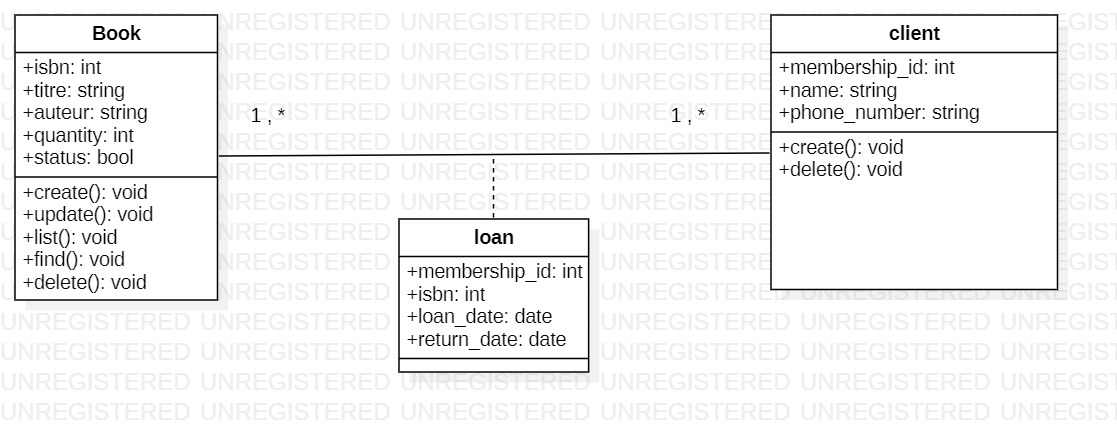
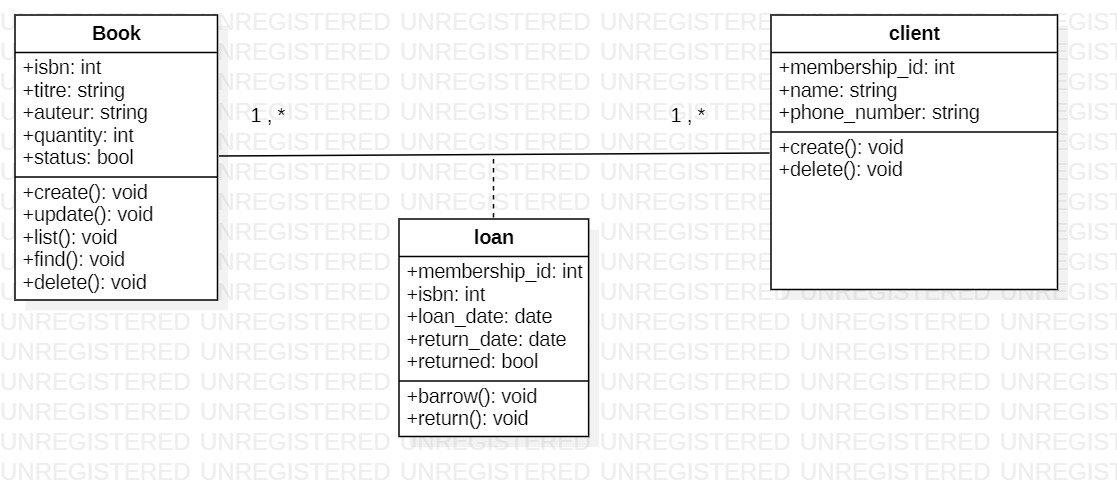
Add loan fonctionality + update uml

diff --git a/src/Main.java b/src/Main.java
@@ -27,43 +27,63 @@ public class Main {
 //        book.list(db);
 
 
-        System.out.println("Enter Book isbn");
-        int isbn = scanner.nextInt();
-        scanner.nextLine();
-
-        Book searchedBook = book.findByIsbn(db, isbn);
-
-        if(searchedBook == null){
-            System.out.println("Sorry we cannot find this book");
-        }else{
-            System.out.println(searchedBook.toString());
-
-            System.out.println("Enter the updated name (press enter to leave it as before)");
-            String updatedTitle = scanner.nextLine();
-            if (!updatedTitle.isEmpty()){
-                searchedBook.setTitle(updatedTitle);
-            }
-            System.out.println("Enter the updated author name (press enter to leave it as it is)");
-            String updatedAuthor = scanner.nextLine();
-            if (!updatedAuthor.isEmpty()){
-                searchedBook.setAuthor(updatedAuthor);
-            }
-            System.out.println("Enter the updated quantity (enter -1 to leave it as it is)");
-            int updatedQuantity = Integer.parseInt(scanner.nextLine());
-
-
-
-            if (updatedQuantity != -1){
-                searchedBook.setQuantity(updatedQuantity);
-            }
-            searchedBook.update(db, searchedBook);
-
-        }
+//        System.out.println("Enter Book isbn");
+//        int isbn = scanner.nextInt();
+//        scanner.nextLine();
+//
+//        Book searchedBook = book.findByIsbn(db, isbn);
+//
+//        if(searchedBook == null){
+//            System.out.println("Sorry we cannot find this book");
+//        }else{
+//            System.out.println(searchedBook.toString());
+//
+//            System.out.println("Enter the updated name (press enter to leave it as before)");
+//            String updatedTitle = scanner.nextLine();
+//            if (!updatedTitle.isEmpty()){
+//                searchedBook.setTitle(updatedTitle);
+//            }
+//            System.out.println("Enter the updated author name (press enter to leave it as it is)");
+//            String updatedAuthor = scanner.nextLine();
+//            if (!updatedAuthor.isEmpty()){
+//                searchedBook.setAuthor(updatedAuthor);
+//            }
+//            System.out.println("Enter the updated quantity (enter -1 to leave it as it is)");
+//            int updatedQuantity = Integer.parseInt(scanner.nextLine());
+//
+//
+//
+//            if (updatedQuantity != -1){
+//                searchedBook.setQuantity(updatedQuantity);
+//            }
+//            searchedBook.update(db, searchedBook);
+//
+//        }
 
 //        System.out.println("Enter the book name or its author's name");
 //        String query = scanner.nextLine();
 
 //        book.search(db, query);
+
+
+        // loan book
+        System.out.println("Enter the book isbn");
+        int _isbn = scanner.nextInt();
+        scanner.nextLine();
+        System.out.println("Enter the client membership Id");
+        int _membershipId = scanner.nextInt();
+        scanner.nextLine();
+        System.out.println("Enter Loan date (yyyy-mm-dd)");
+        String _loanDate = scanner.nextLine();
+        System.out.println("Enter Return date (yyyy-mm-dd)");
+        String _returnDate = scanner.nextLine();
+
+        Loan _loan = new Loan(_isbn, _membershipId, _loanDate, _returnDate,false);
+
+        _loan.borrow(db, _loan);
+
+
+
 
  }
 }

diff --git a/src/Loan.java b/src/Loan.java
@@ -1,0 +1,87 @@
+import java.sql.PreparedStatement;
+import java.sql.SQLException;
+import java.util.Date;
+
+public class Loan {
+    private int isbn;
+    private int membershipId;
+    private String loanDate;
+    private String returnDate;
+
+    private Boolean returned = false;
+
+
+    public Loan() {
+    }
+
+    public Loan(int isbn, int membershipId, String loanDate, String returnDate, Boolean returned) {
+        this.isbn = isbn;
+        this.membershipId = membershipId;
+        this.loanDate = loanDate;
+        this.returnDate = returnDate;
+        this.returned = returned;
+    }
+
+    public int getIsbn() {
+        return isbn;
+    }
+
+    public void setIsbn(int isbn) {
+        this.isbn = isbn;
+    }
+
+    public int getMembershipId() {
+        return membershipId;
+    }
+
+    public void setMembershipId(int membershipId) {
+        this.membershipId = membershipId;
+    }
+
+    public String getLoanDate() {
+        return loanDate;
+    }
+
+    public void setLoanDate(String loanDate) {
+        this.loanDate = loanDate;
+    }
+
+    public String getReturnDate() {
+        return returnDate;
+    }
+
+    public void setReturnDate(String returnDate) {
+        this.returnDate = returnDate;
+    }
+
+    public Boolean getReturned() {
+        return returned;
+    }
+
+    public void setReturned(Boolean returned) {
+        this.returned = returned;
+    }
+
+
+    public void borrow(Database db, Loan loan) throws SQLException{
+
+        try {
+            String selectQuery = "INSERT INTO loan(isbn, membership_id, loan_date, return_date) VALUES(?,?,?,?)";
+            PreparedStatement stmt = db.query(selectQuery);
+            db.bind(stmt, 1, loan.getIsbn());
+            db.bind(stmt, 2, loan.getMembershipId());
+            db.bind(stmt, 3, loan.getLoanDate());
+            db.bind(stmt, 4, loan.getReturnDate());
+            int rowsAffected = db.executeUpdate(stmt);
+            if(rowsAffected > 0){
+                System.out.println("Book has loaned successfully");
+            }else{
+                System.out.println("There was an error with this operation");
+            }
+
+        }catch (SQLException exception){
+            System.out.println(exception.getMessage());
+        }
+    }
+
+}

diff --git a/src/Client.java b/src/Client.java
@@ -1,3 +1,6 @@
+import java.sql.PreparedStatement;
+import java.sql.SQLException;
+
 public class Client {
     private int membershipId;
     private String name;
@@ -34,6 +37,32 @@ public class Client {
     }
 
 
+    public void add(Database db, Client client) throws SQLException {
+        try{
+            String selectQuery = "INSERT INTO client(name, phone_number) VALUES(?,?)";
+            PreparedStatement stmt = db.query(selectQuery);
+            db.bind(stmt, 1,  client.getName());
+            db.bind(stmt, 2, client.getPhoneNumber());
+
+            int rowsAffected = stmt.executeUpdate();
+
+            if(rowsAffected > 0){
+                System.out.println("Client Created successfully");
+            }else {
+                System.out.println("There was a problem in this operation");
+            }
+        }catch (SQLException exception) {
+            System.out.println(exception.getMessage());
+        }
+    }
 
 
+
+    @Override
+    public String toString() {
+        return "\n=========================== \n" +
+                "name='" + name + '\'' +
+                "\n, phoneNumber='" + phoneNumber + '\'' ;
+
+    }
 }
